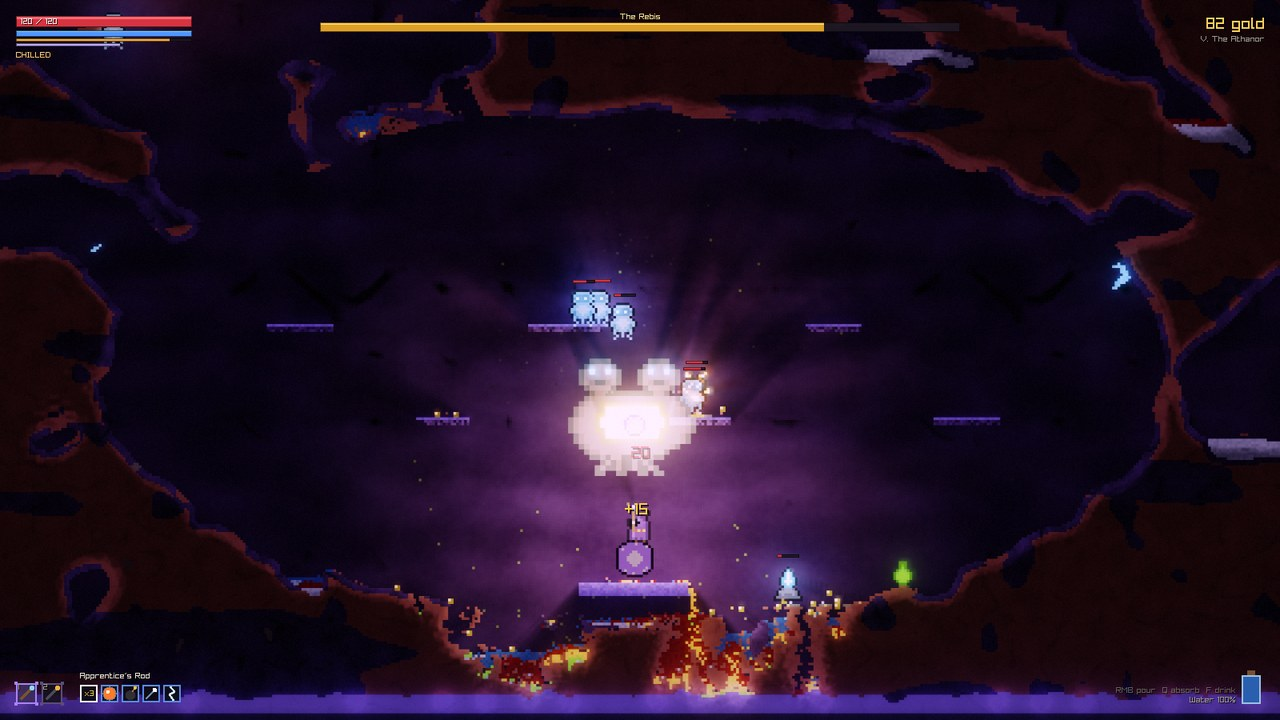
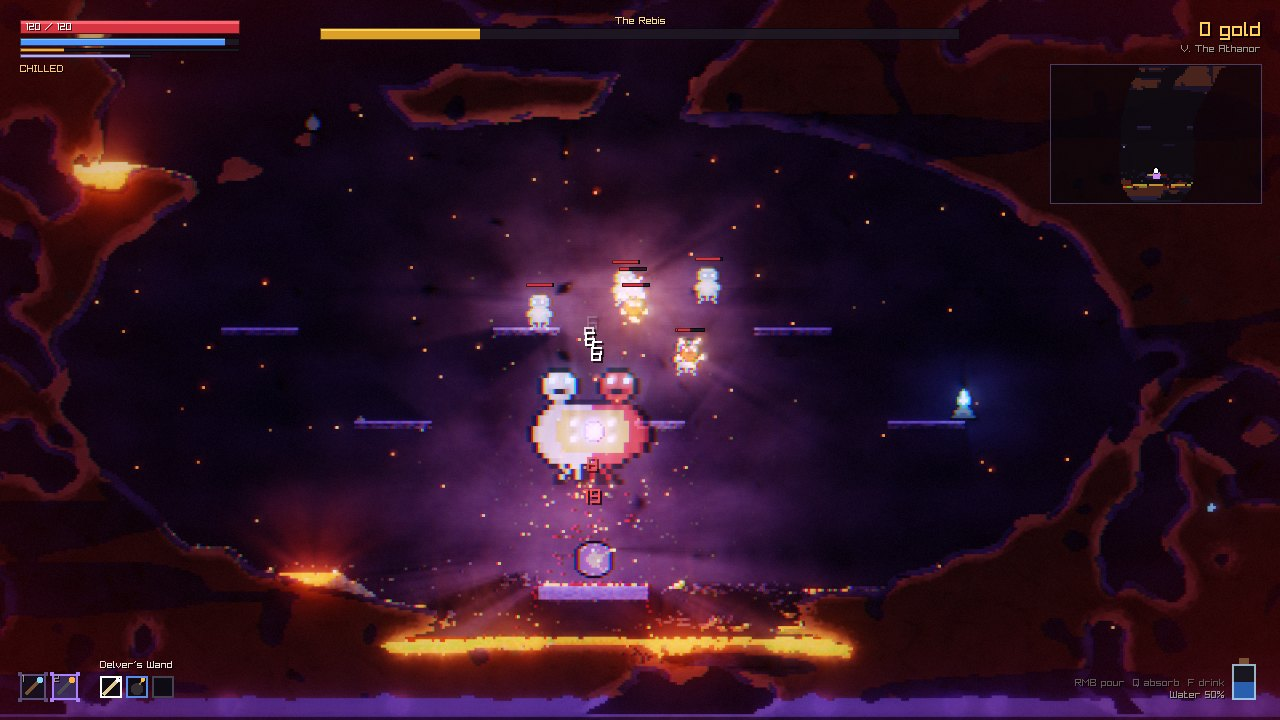
The Rebis as the white queen and the red king
The boss is recoloured in its alchemical halves - white and grey on one
side, crimson on the other, around a golden heart - and its arena light now
hangs above its heads with a softer hurt flash, so its shape no longer
dissolves into a white bloom.

Claude-Session: https://claude.ai/code/session_01SS7k2x4EpKFxcss3PJLjx6

diff --git a/src/render/SpriteData.cpp b/src/render/SpriteData.cpp
@@ -59,6 +59,9 @@ constexpr PaletteEntry kPalette[] = {
     {'%', {196, 228, 244, 200}, false},{'@', {255, 255, 255, 255}, false},{'+', {255, 255, 255, 255}, true},
     {'#', {150, 110, 255, 255}, true}, {'*', {255, 255, 255, 255}, true}, {'$', {255, 214, 90, 255}, true},
     {'S', {96, 90, 104, 255}, false},  {'^', {142, 136, 150, 255}, false},
+    // The Rebis: white queen and red king
+    {'>', {232, 228, 240, 255}, false},{')', {150, 146, 172, 255}, false},{'<', {188, 36, 44, 255}, false},
+    {'(', {104, 18, 30, 255}, false},
 };
 // clang-format on
 
@@ -626,29 +629,30 @@ const char* const kPedestal[] = {
     "ooooooooooo",
 };
 
-// ---- Boss: the Rebis, the two-headed alchemical hermaphrodite (24x22) --------------------
+// ---- Boss: the Rebis, the two-headed alchemical hermaphrodite (24x22): the white queen and
+// the red king joined around a golden heart. ------------------------------------------------
 const char* const kBoss[] = {
     "....oooo.......oooo.....",
-    "...o7777o.....o7777o....",
-    "..o7E77E7o...o7E77E7o...",
-    "..o777777o...o777777o...",
-    "..o78oo87o...o78oo87o...",
-    "...o7777o.....o7777o....",
-    "....o88ooooooooo88o.....",
-    "...o8777777777777778o...",
-    "..o877gggggggggggg778o..",
-    ".o8777gggggggggggg7778o.",
-    ".o877ggg*gg##gg*ggg778o.",
-    "o8777ggggg####ggggg7778o",
-    "o8777ggggg####ggggg7778o",
-    "o8777ggg*gg##gg*ggg7778o",
-    ".o8777gggggggggggg7778o.",
-    ".o8777gggggggggggg7778o.",
-    "..o87777777777777778o...",
-    "...o88777777777777o.....",
-    "....oo8o77oo77o8oo......",
-    "......o8o8oo8o8o........",
-    ".....o8oo8oo8oo8o.......",
+    "...o>>>>o.....o<<<<o....",
+    "..o>E>>E>o...o<E<<E<o...",
+    "..o>>>>>>o...o<<<<<<o...",
+    "..o>)oo)>o...o<(oo(<o...",
+    "...o>>>>o.....o<<<<o....",
+    "....o))ooooooooo((o.....",
+    "...o)>>>>>>><<<<<<<(o...",
+    "..o)>>gggggggggggg<<(o..",
+    ".o)>>>gggggggggggg<<<(o.",
+    ".o)>>ggg*gg##gg*ggg<<(o.",
+    "o)>>>ggggg####ggggg<<<(o",
+    "o)>>>ggggg####ggggg<<<(o",
+    "o)>>>ggg*gg##gg*ggg<<<(o",
+    ".o)>>>gggggggggggg<<<(o.",
+    ".o)>>>gggggggggggg<<<(o.",
+    "..o)>>>>>>>><<<<<<<(o...",
+    "...o))>>>>>><<<<<<o.....",
+    "....oo)o>>oo<<o(oo......",
+    "......o)o)oo(o(o........",
+    ".....o)oo)oo(oo(o.......",
     ".....oo..oo..oo.oo......",
 };
 const char* const kBossCore[] = {

diff --git a/src/game/Enemy.cpp b/src/game/Enemy.cpp
@@ -592,7 +592,7 @@ void Enemy::drawBoss(DrawContext& ctx, Vec2 p, Color tint) const {
     Vec2 topLeft{p.x - info.w * kScale * 0.5f, p.y - info.h * kScale * 0.5f + std::sin(ctx.time * 1.7f) * 1.5f};
     Vector2 lp = ctx.scene.layerPos(topLeft);
     ctx.sprites.drawScaled(SpriteId::Boss, 0, lp, kScale, false, tint);
-    if (hurtFlash > 0.0f) ctx.sprites.drawScaled(SpriteId::Boss, 0, lp, kScale, false, Color{255, 255, 255, 90}, false, true);
+    if (hurtFlash > 0.0f) ctx.sprites.drawScaled(SpriteId::Boss, 0, lp, kScale, false, Color{255, 255, 255, 45}, false, true);
     // The philosopher's stone pulses at the Rebis' heart.
     const SpriteInfo& ci = ctx.sprites.info(SpriteId::BossCore);
     Vector2 cp = ctx.scene.layerPos({p.x - ci.w * 0.5f, topLeft.y + info.h * kScale * 0.5f - ci.h * 0.5f + 2.0f});
@@ -623,9 +623,13 @@ void Enemy::addLights(DrawContext& ctx) const {
     if (elite_) ctx.scene.addLight(PointLight{p, 1.4f, 1.0f, 0.35f, 46.0f, 4.0f});
     if (def_->glow == 0) return;
     Color c = hexColor(def_->glow);
-    float k = type_ == EnemyType::Boss ? 1.4f : 0.9f;
-    float radius = type_ == EnemyType::Boss ? 150.0f : 40.0f;
-    ctx.scene.addLight(PointLight{p, c.r / 255.0f * k, c.g / 255.0f * k, c.b / 255.0f * k, radius, 4.0f});
+    if (type_ == EnemyType::Boss) {
+        // The Rebis lights its arena from above its heads, so its own body is not blown out.
+        ctx.scene.addLight(PointLight{p - Vec2{0.0f, 44.0f}, c.r / 255.0f * 0.95f, c.g / 255.0f * 0.95f, c.b / 255.0f * 0.95f, 170.0f, 0.0f});
+        return;
+    }
+    constexpr float k = 0.9f;
+    ctx.scene.addLight(PointLight{p, c.r / 255.0f * k, c.g / 255.0f * k, c.b / 255.0f * k, 40.0f, 4.0f});
 }
 
 } // namespace pm
